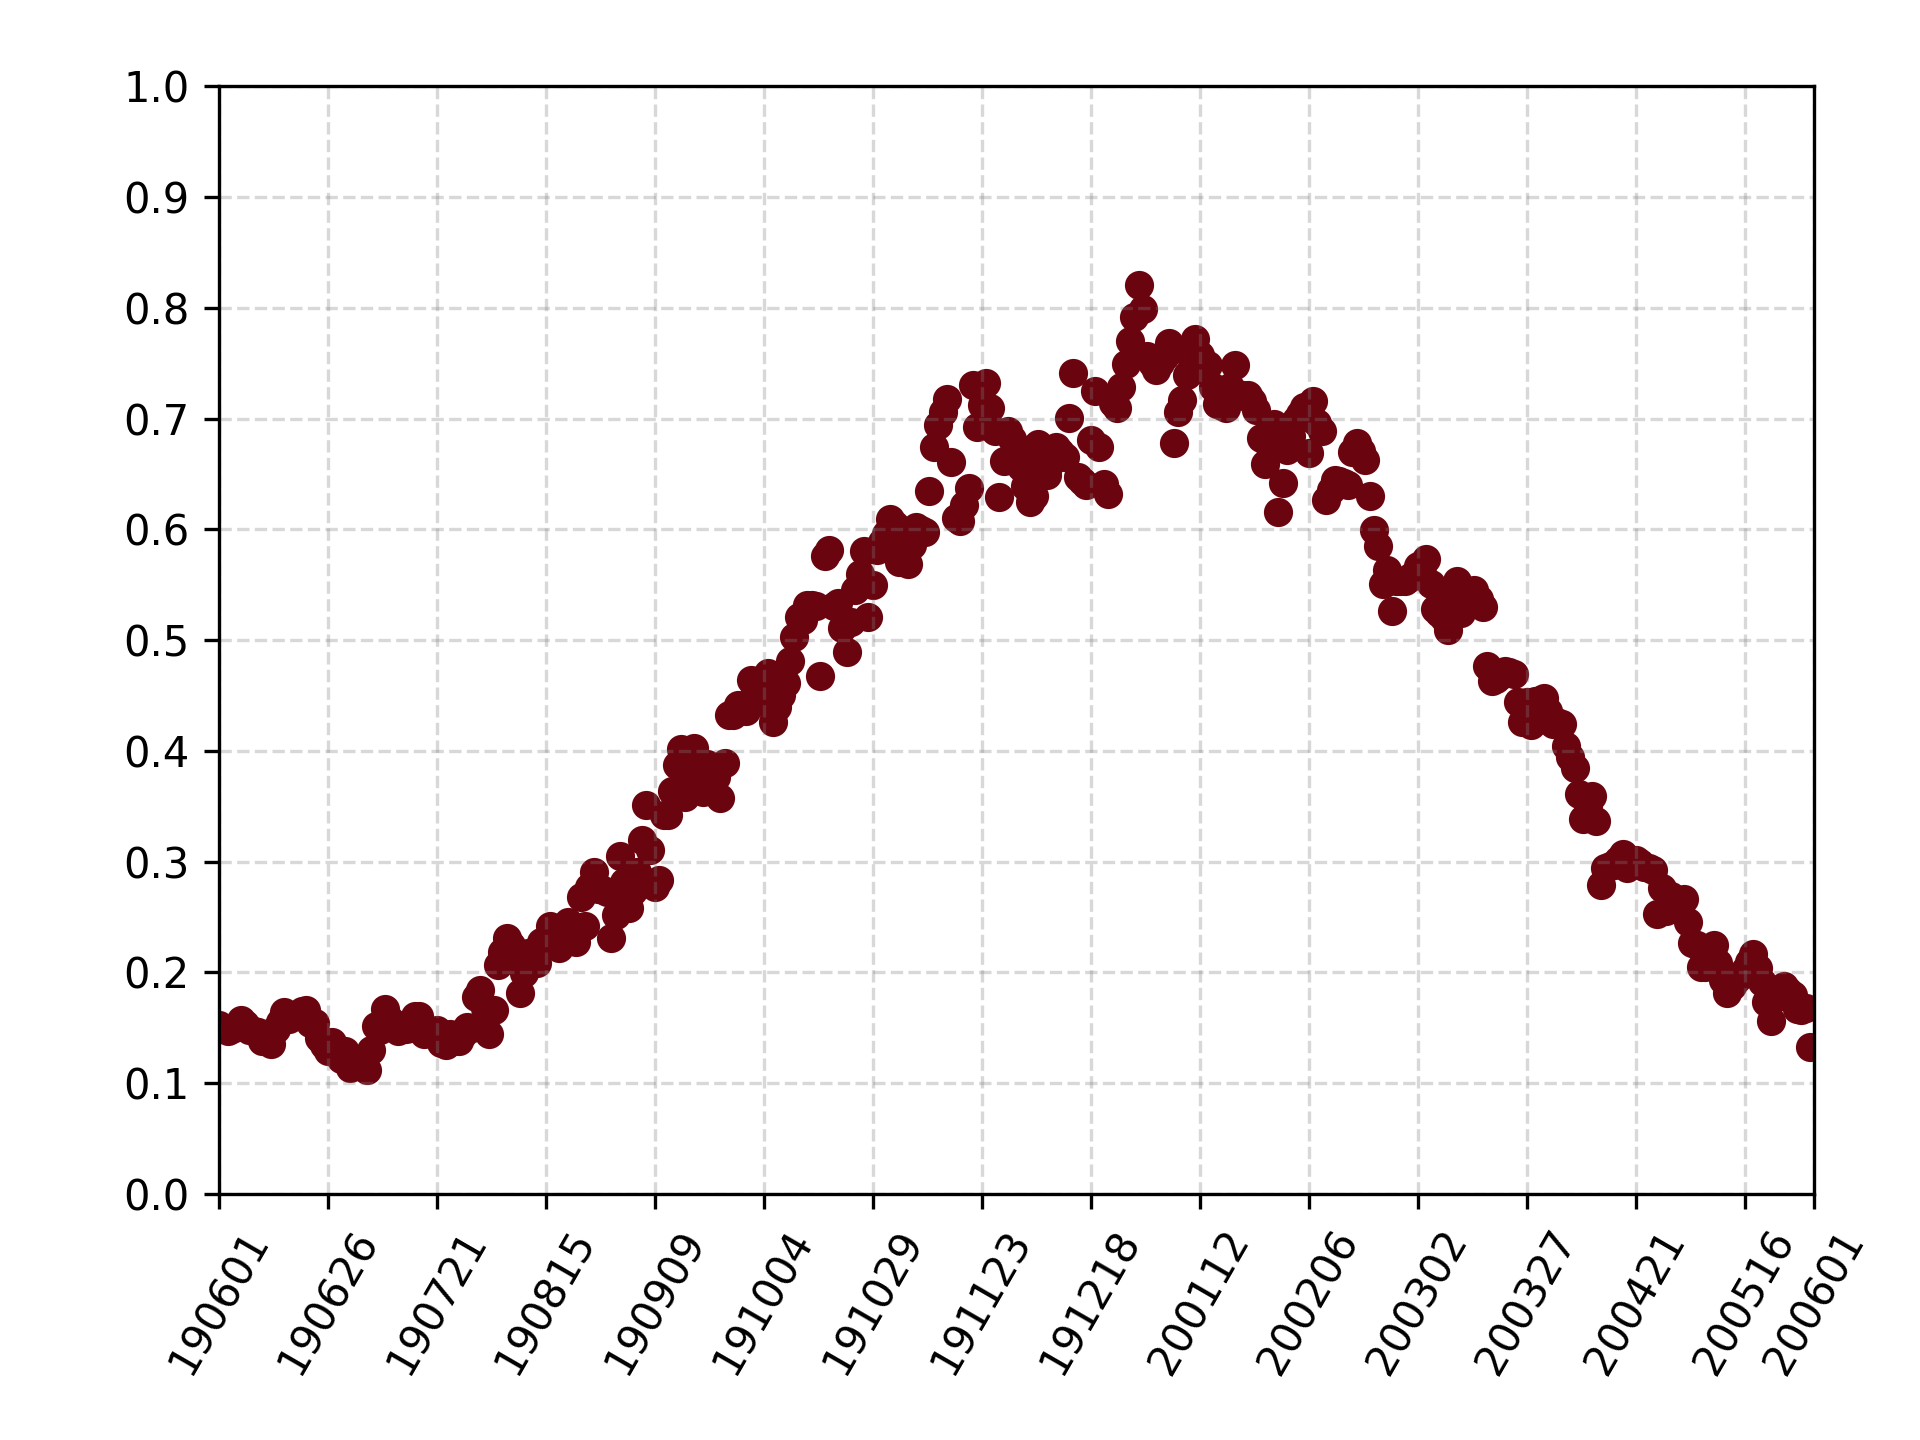
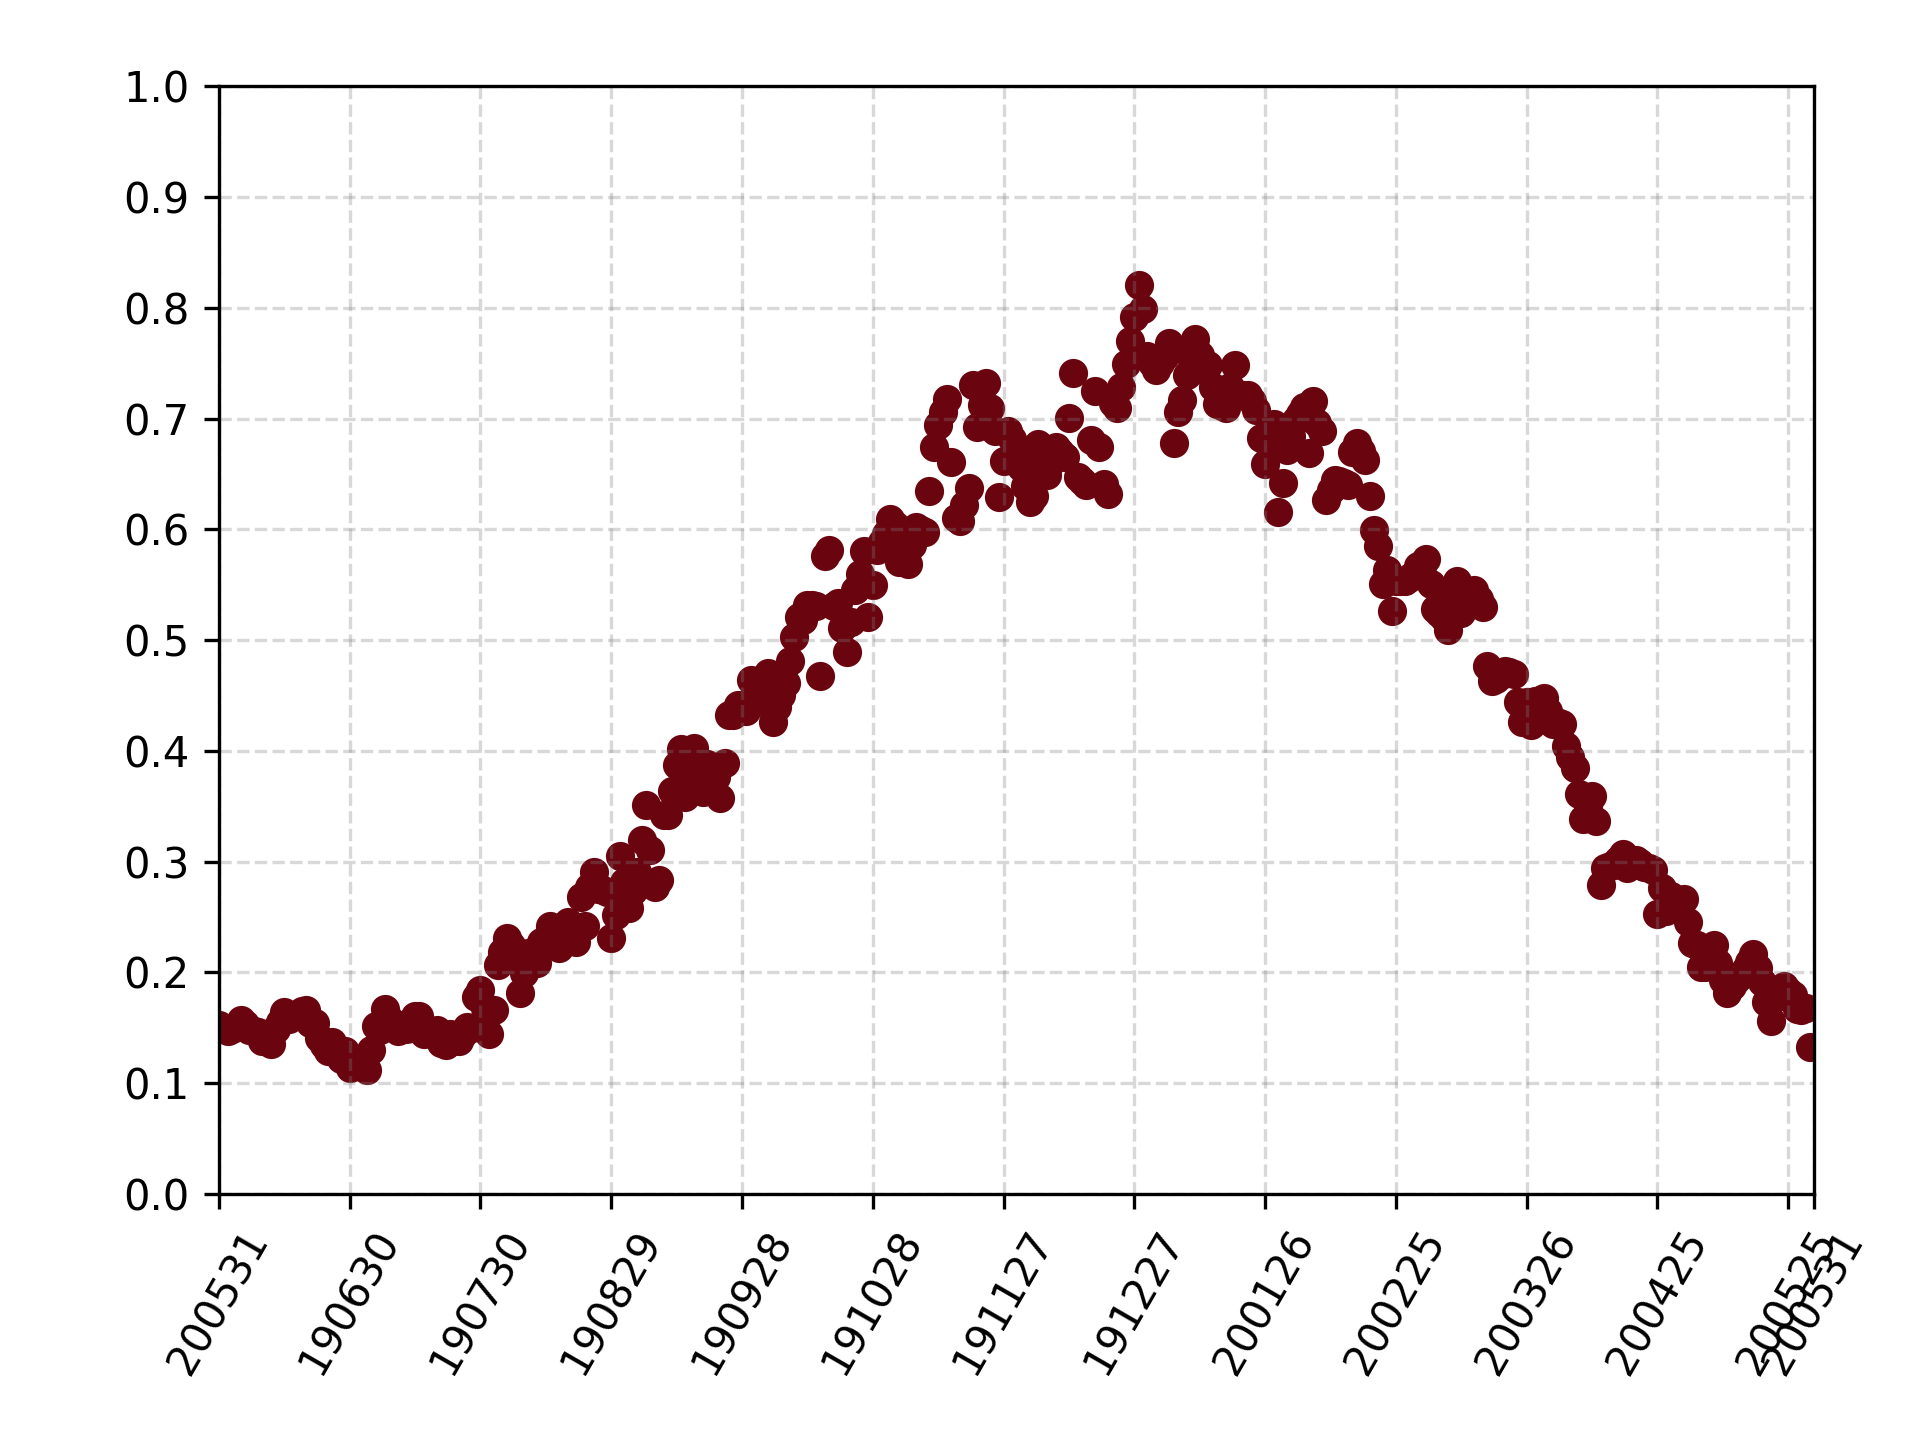
[CHANGE] Reduce the graphic script

diff --git a/Scripts/pre_vitamin_d_graphics.py b/Scripts/pre_vitamin_d_graphics.py
@@ -2,42 +2,18 @@ import matplotlib.pyplot as plt
 from os import listdir
 import numpy as np
 import datetime
-
-def date_yymmdd(day,day_i):
-    date=day_i+datetime.timedelta(days=day)
-    year=str(date.year)[2:4]
-    month=format_number(date.month)
-    day=format_number(date.day)
-    date=year+month+day
-    return date
-
-def format_number(number):
-    if number<10:
-        number_str="0"+str(number)
-    else:
-        number_str=str(number)
-    return number_str
-
-dir_vitamin_d="../PreVitamin_D/"
+dir_vitamin_d="../Data/Rosario_period/"
 dir_graphics="../Graphics/"
 day_i=datetime.date(2019,6,1)
 day_f=datetime.date(2020,5,31)
 n_days=(day_f-day_i).days+1
-values_max=[]
-files=np.sort(listdir(dir_vitamin_d))
-for file in files:
-    data=np.loadtxt(dir_vitamin_d+file,usecols=1)
-    values_max=np.append(values_max,np.max(data))
-x=np.arange(0,n_days,25)
-x=np.append(x,n_days)
-ticks=[]
-for day in x:
-    date=date_yymmdd(int(day),day_i)
-    ticks=np.append(ticks,date)
-plt.scatter(np.arange(n_days),values_max,color="#6a040f")
+date=np.loadtxt(dir_vitamin_d+"sza_vitamin_max.csv",delimiter=",",skiprows=1,usecols=0,dtype=str)
+data_vitamin=np.loadtxt(dir_vitamin_d+"sza_vitamin_max.csv",delimiter=",",skiprows=1,usecols=2)
+x=np.arange(0,n_days,25);x=np.append(x,n_days)
+plt.scatter(np.arange(n_days),data_vitamin,color="#6a040f")
 plt.xlim(0,n_days)
 plt.ylim(0,1)
-plt.xticks(x,ticks,rotation=60)
+plt.xticks(x,date[x-1],rotation=60)
 plt.yticks(np.arange(0,1+0.1,0.1))
 plt.grid(ls="--",color="grey",alpha=0.3)
 plt.subplots_adjust(left=0.114,bottom=0.171,right=0.945,top=0.94)
